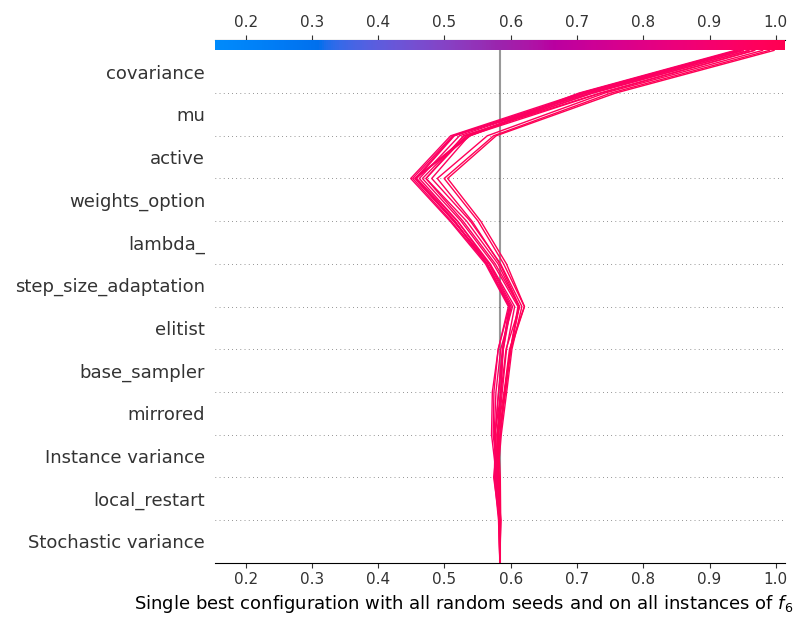
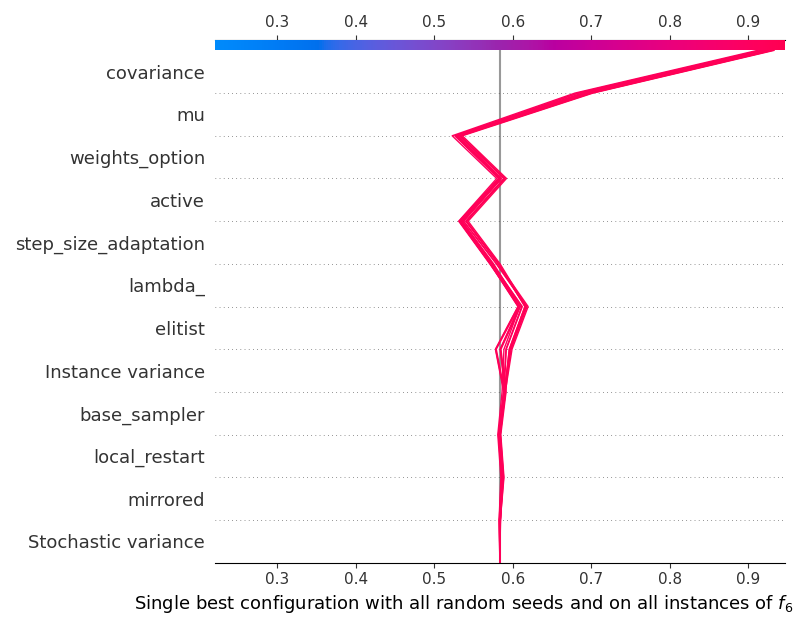
setted depth back to 14, now we wait

diff --git a/ioh_xplainer/core.py b/ioh_xplainer/core.py
@@ -649,14 +649,19 @@ class explainer(object):
                         shap_values[best_config_index, :],
                         subdf_display.loc[best_config_index],
                         matplotlib=use_matplotlib,
+                        out_names="",
                         show=(not use_matplotlib),
                         plot_cmap="viridis",
                     )
                     if use_matplotlib:
                         plt.xlabel(f"Single best configuration on $f_{{{fid}}}$ in $d={dim}$")
-                        plt.tight_layout()
+                        #plt.tight_layout()
                         if file_prefix != None:
-                            plt.savefig(f"{file_prefix}singlebest_f{fid}_d{dim}.png")
+                            plt.savefig(f"{file_prefix}singlebest_f{fid}_d{dim}.png",
+                                dpi=1200,
+                                transparent=True,
+                                bbox_inches="tight",
+                                format='png')
                         else:
                             plt.show()
                         plt.clf()
